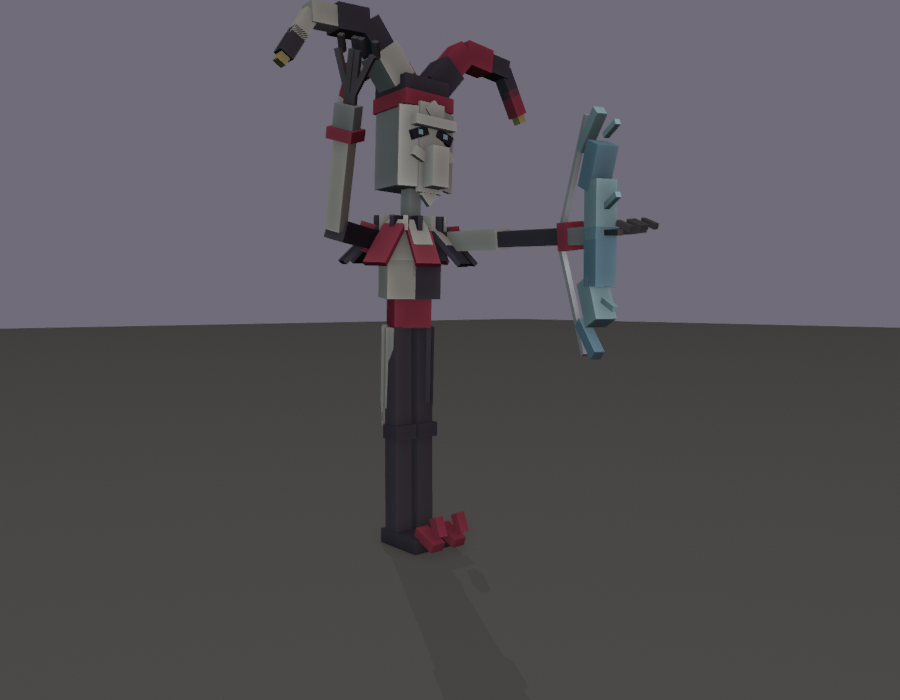
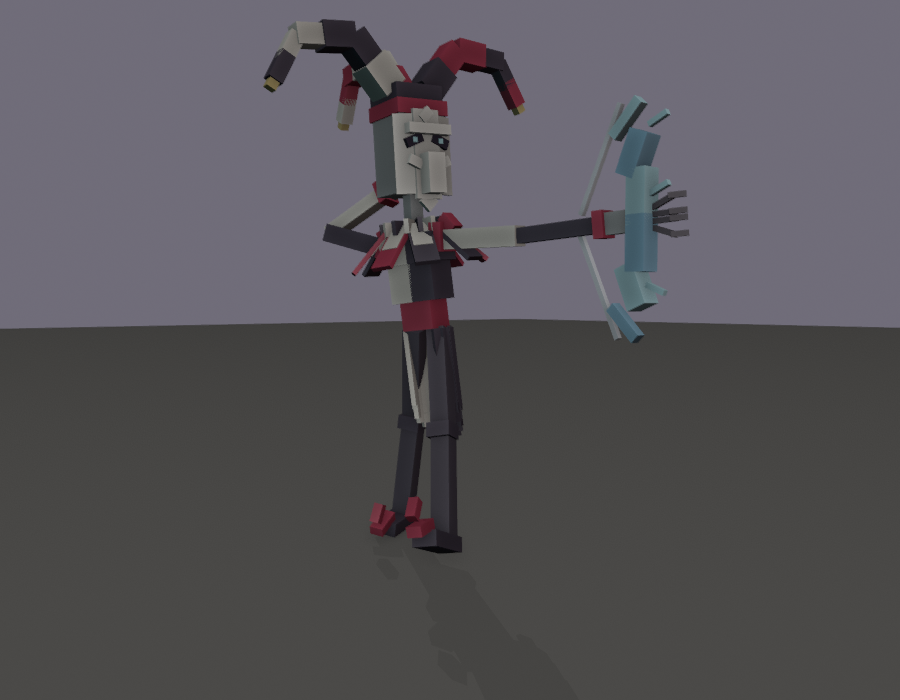
Mirrored Magus session 2: the draw as an archer's stance (side-on, bow arm out, the string drawn to his cheek) and the death as a marionette crumpling to the floor; every pose set down on the floor

Changed region(s): [[0.28, 0.0, 0.7778, 0.81]]

diff --git a/tools/art/bosses/magus_s2.py b/tools/art/bosses/magus_s2.py
@@ -231,9 +231,12 @@ def hitbox_bounds(model):
 POSES = {
     "idle": ("idle: hunched, his head tilted, the bow hanging", {
         "neck": (4, 0, 14), "arm_left": (8, 0, -6), "arm_right": (10, 0, 8), "forearm_right": (8, 0, 0)}),
-    "draw": ("the arrow fans: the bow drawn, his mask turned to the shot", {
-        "torso": (4, -20, 0), "neck": (0, 18, 4), "arm_left": (90, 20, -6), "forearm_left": (0, 0, 0),
-        "arm_right": (84, -38, 18), "forearm_right": (70, 0, 0),
+    "draw": ("the arrow fans: side-on to his target, the bow arm straight out, the string drawn to his cheek with the "
+             "elbow high and back, his mask turned to sight along the arrow", {
+        "hips": (0, -62, 0), "torso": (6, -14, -6), "neck": (-4, 70, 6),
+        "leg_left": (16, 0, -10), "shin_left": (6, 0, 0), "leg_right": (-16, 0, 8), "shin_right": (14, 0, 0),
+        "arm_left": (0, 0, -84), "forearm_left": (0, 0, -4),
+        "arm_right": (0, -10, 110), "forearm_right": (0, 0, 138),
         "bowstring_upper": (-25, 0, 0), "bowstring_lower": (25, 0, 0)}),
     "prism": ("the prism burst: the bow raised overhead, the crystal gathering the light", {
         "torso": (12, 0, 0), "neck": (22, 0, 0), "arm_left": (172, 0, -14), "forearm_left": (10, 0, 0),
@@ -248,16 +251,19 @@ POSES = {
     "laugh": ("a wrong hit: the decoy shatters and he laughs, head thrown back", {
         "torso": (16, 0, 0), "neck": (28, 0, -10), "arm_left": (20, 0, -30), "arm_right": (40, 0, 40),
         "forearm_right": (60, 0, 0), "hat_left_0": (0, 0, 20), "hat_right_0": (0, 0, -20), "hat_back_0": (20, 0, 0)}),
-    "death": ("death: the strings cut - knees buckling, folding forward", {
-        "hips": (0, 0, 0), "torso": (-60, 0, 10), "neck": (-30, 0, 20), "arm_left": (-10, 0, -10),
-        "arm_right": (-20, 0, 14), "leg_left": (-70, 0, 0), "shin_left": (110, 0, 0), "leg_right": (-80, 0, 0),
-        "shin_right": (115, 0, 0), "hat_left_1": (0, 0, 30), "hat_right_1": (0, 0, -30)}),
+    "death": ("death: the strings cut - he crumples where he stands and sits slumped, legs out before him, folded "
+              "forward over them, his head lolling, his arms limp beside him, the hat's points flopped down", {
+        "leg_left": (90, 8, -10), "shin_left": (4, 0, 0), "leg_right": (90, -10, 12), "shin_right": (6, 0, 0),
+        "torso": (-38, 0, 14), "neck": (-34, 14, 32), "coat": (132, 0, 0),
+        "arm_left": (78, 0, -20), "forearm_left": (110, 0, 0), "arm_right": (82, 0, 22), "forearm_right": (106, 0, 0),
+        "hat_left_0": (0, 0, 20), "hat_left_1": (0, 0, 30), "hat_right_0": (0, 0, -10), "hat_right_1": (0, 0, -24),
+        "hat_back_1": (24, 0, 0)}),
 }
-DROP = {"blink": 10, "death": 22}            # how far the hips sink (crouching, kneeling)
 # the bow is turned to a world orientation in these poses, whatever his arm does: upright and facing the shot when he
 # draws; held flat overhead, its belly up, for the prism (columns: where the bow's own x, y, z axes point)
-BOW_AIM = {"draw": lambda: rotation_matrix((0, -20, 0)),
-           "prism": lambda: np.column_stack([(0, 0, -1.0), (1.0, 0, 0), (0, -1.0, 0)])}
+BOW_AIM = {"draw": lambda: rotation_matrix((0, 0, 0)),
+           "prism": lambda: np.column_stack([(0, 0, -1.0), (1.0, 0, 0), (0, -1.0, 0)]),
+           "death": lambda: np.column_stack([(0, 0, -1.0), (1.0, 0, 0), (0, -1.0, 0)])}    # dropped, lying flat
 
 
 def pose(model, key):
@@ -267,14 +273,14 @@ def pose(model, key):
     if key in BOW_AIM:
         from bosses.unbound_s2 import aim
         aim(group(model, "glow_bow"), BOW_AIM[key]())
-    d = DROP.get(key, 0)
-    if d:
-        for g in model.groups:
-            g.origin[1] -= d
-        for c in model.cubes:
-            c.frm[1] -= d
-            c.to[1] -= d
-            c.origin[1] -= d
+    # whatever the pose, he stands (or kneels, or lies) on the floor: the lowest point is set down at 0
+    d = float(model.bounds()[0][1])
+    for g in model.groups:
+        g.origin[1] -= d
+    for c in model.cubes:
+        c.frm[1] -= d
+        c.to[1] -= d
+        c.origin[1] -= d
 
 
 def parts_list(model):

diff --git a/docs/art/bosses/mirrored_magus/overhaul/s2_design/README.md b/docs/art/bosses/mirrored_magus/overhaul/s2_design/README.md
@@ -46,13 +46,20 @@ draws, and held flat overhead for the prism.
 
 ## Key poses
 
+**Take 2 of the draw and the death:** the user found them weird and robotic. Every pose is also now set down on
+the floor, so the death rests on the ground instead of floating.
+
+
 - **Idle:** hunched, his head tilted, the bow hanging.
-- **Draw** (the arrow fans): the bow drawn and upright, his mask turned to the shot.
+- **Draw** (the arrow fans): an archer's stance. He stands side-on to his target with his feet planted, the
+  bow arm straight out, and the string drawn back past his cheek with the elbow high. His mask turns to sight
+  along the arrow.
 - **Prism:** the bow raised flat overhead, the crystal gathering the light.
 - **Curtsey** (conjuring the decoys): a deep courtly bow, one arm sweeping out.
 - **Blink:** folding in on himself as he vanishes.
 - **Laugh** (a wrong hit shatters a decoy): head thrown back.
-- **Death:** the strings cut, knees buckling, folding forward.
+- **Death:** the strings cut. He crumples where he stands into a heap on the floor: legs out, slumped forward
+  over them, his head lolling, his arms limp, the hat's points flopped down, the bow dropped flat beside him.
 
 ![Idle, draw, prism, curtsey](poses_1.png)
 
